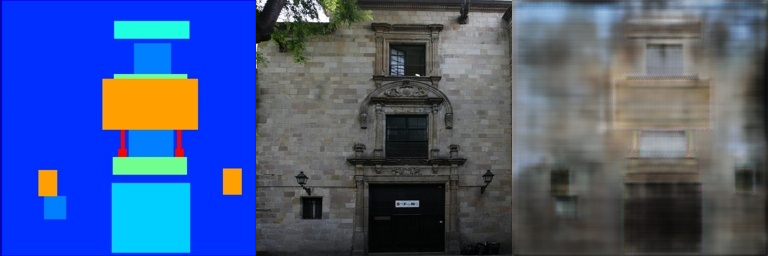
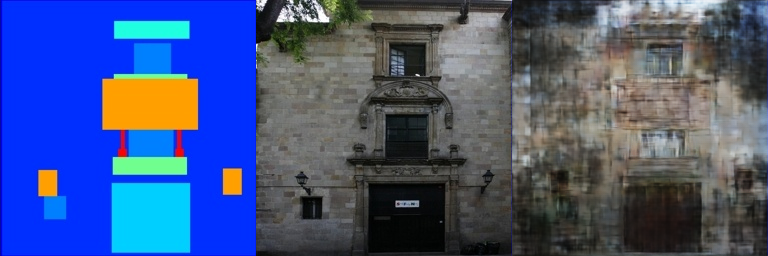
Update training method

Changed region(s): [[0.6562, 0.0, 1.0, 1.0]]

diff --git a/Assignments/02_DIPwithPyTorch/Pix2Pix/generate.py b/Assignments/02_DIPwithPyTorch/Pix2Pix/generate.py
@@ -5,6 +5,8 @@ import torch
 import argparse
 from FCN_network import FullyConvNetwork
 
+IMAGE_GENERATION = True
+
 def tensor_to_image(tensor):
     """
     Convert a PyTorch tensor to a NumPy array suitable for OpenCV.
@@ -38,10 +40,10 @@ def get_recent_checkpoint():
 
 def main():
     parser = argparse.ArgumentParser()
-    parser.add_argument('input_filename')
-    parser.add_argument('output_filename')
+    parser.add_argument('input_folder')
+    parser.add_argument('output_folder')
     args = parser.parse_args()
-    input_filename, output_filename = args.input_filename, args.output_filename
+    input_folder, output_folder = args.input_folder, args.output_folder
 
     """
     Main function to set up the training and validation processes.
@@ -52,6 +54,8 @@ def main():
     # Initialize model, loss function, and optimizer
     model = FullyConvNetwork().to(device)
 
+    criterion = torch.nn.L1Loss()
+
     # Load recent checkpoint if needed
     start_num_epochs, checkpoint = get_recent_checkpoint()
     if start_num_epochs > 0:
@@ -60,33 +64,48 @@ def main():
     else:
         raise RuntimeError("Cannot load recent model")
 
-    img_color_semantic = cv2.imread(input_filename)
-    # Convert the image to a PyTorch tensor
-    image = torch.from_numpy(img_color_semantic).permute(2, 0, 1).float() / 255.0 * 2.0 - 1.0
-    image_rgb = torch.Tensor(size=(1, image.size()[0], image.size()[1], image.size()[2]//2))
-    image_semantic = torch.Tensor(size=(1, image.size()[0], image.size()[1], image.size()[2]//2))
-    image_rgb[0, :, :, :] = image[:, :, :256]
-    image_semantic[0, :, :, :] = image[:, :, 256:]
+    for filename in os.listdir(input_folder):
+        img_color_semantic = cv2.imread(os.path.join(input_folder, filename))
+        # Convert the image to a PyTorch tensor
+        image = torch.from_numpy(img_color_semantic).permute(2, 0, 1).float() / 255.0 * 2.0 - 1.0
+        image_rgb = torch.Tensor(size=(1, image.size()[0], image.size()[1], image.size()[2]//2))
+        image_semantic = torch.Tensor(size=(1, image.size()[0], image.size()[1], image.size()[2]//2))
+        image_rgb[0, :, :, :] = image[:, :, :256]
+        image_semantic[0, :, :, :] = image[:, :, 256:]
 
-    with torch.no_grad():
-        # Move data to the device
-        image_rgb = image_rgb.to(device)
-        image_semantic = image_semantic.to(device)
+        with torch.no_grad():
+            # Move data to the device
+            image_rgb = image_rgb.to(device)
+            image_semantic = image_semantic.to(device)
 
-        # Forward pass
-        outputs = model(image_semantic)
+            if IMAGE_GENERATION:
+                # Forward pass
+                outputs = model(image_semantic)
+                loss = criterion(outputs, image_rgb)
 
-        # Save sample images
-        # Convert tensors to images
-        input_img_np = tensor_to_image(image_semantic[0])
-        target_img_np = tensor_to_image(image_rgb[0])
-        output_img_np = tensor_to_image(outputs[0])
+                # Save sample images
+                # Convert tensors to images
+                input_img_np = tensor_to_image(image_semantic[0])
+                target_img_np = tensor_to_image(image_rgb[0])
+                output_img_np = tensor_to_image(outputs[0])
+            else:
+                # Forward pass
+                outputs = model(image_rgb)
+                loss = criterion(outputs, image_semantic)
 
-        # Concatenate the images horizontally
-        comparison = np.hstack((input_img_np, target_img_np, output_img_np))
+                # Save sample images
+                # Convert tensors to images
+                input_img_np = tensor_to_image(image_rgb[0])
+                target_img_np = tensor_to_image(image_semantic[0])
+                output_img_np = tensor_to_image(outputs[0])
 
-        # Save the comparison image
-        cv2.imwrite(output_filename, comparison)
+            # Concatenate the images horizontally
+            comparison = np.hstack((input_img_np, target_img_np, output_img_np))
+
+            # Save the comparison image
+            cv2.imwrite(os.path.join(output_folder, filename), comparison)
+
+            print(f'"{filename}", loss={loss.item():.4f}')
 
 if __name__ == '__main__':
     main()

diff --git a/Assignments/03_PlayWithGANs/Pix2Pix/train.py b/Assignments/03_PlayWithGANs/Pix2Pix/train.py
@@ -9,6 +9,8 @@ from facades_dataset import FacadesDataset
 from GeneratorNetwork import GeneratorNetwork
 from torch.optim.lr_scheduler import StepLR
 
+IMAGE_GENERATION = True
+
 def tensor_to_image(tensor):
     """
     Convert a PyTorch tensor to a NumPy array suitable for OpenCV.
@@ -79,14 +81,23 @@ def train_one_epoch(model, dataloader, optimizer, criterion, device, epoch, num_
         optimizer.zero_grad()
 
         # Forward pass
-        outputs = model(image_rgb)
+        if IMAGE_GENERATION:
+            outputs = model(image_semantic)
+        else:
+            outputs = model(image_rgb)
 
         # Save sample images every 5 epochs
         if epoch % 5 == 0 and i == 0:
-            save_images(image_rgb, image_semantic, outputs, 'train_results', epoch)
+            if IMAGE_GENERATION:
+                save_images(image_semantic, image_rgb, outputs, 'train_results', epoch)
+            else:
+                save_images(image_rgb, image_semantic, outputs, 'train_results', epoch)
 
         # Compute the loss
-        loss = criterion(outputs, image_semantic)
+        if IMAGE_GENERATION:
+            loss = criterion(outputs, image_rgb)
+        else:
+            loss = criterion(outputs, image_semantic)
 
         # Backward pass and optimization
         loss.backward()
@@ -120,15 +131,24 @@ def validate(model, dataloader, criterion, device, epoch, num_epochs):
             image_semantic = image_semantic.to(device)
 
             # Forward pass
-            outputs = model(image_rgb)
+            if IMAGE_GENERATION:
+                outputs = model(image_semantic)
+            else:
+                outputs = model(image_rgb)
 
             # Compute the loss
-            loss = criterion(outputs, image_semantic)
+            if IMAGE_GENERATION:
+                loss = criterion(outputs, image_rgb)
+            else:
+                loss = criterion(outputs, image_semantic)
             val_loss += loss.item()
 
             # Save sample images every 5 epochs
             if epoch % 5 == 0 and i == 0:
-                save_images(image_rgb, image_semantic, outputs, 'val_results', epoch)
+                if IMAGE_GENERATION:
+                    save_images(image_semantic, image_rgb, outputs, 'val_results', epoch)
+                else:
+                    save_images(image_rgb, image_semantic, outputs, 'val_results', epoch)
 
     # Calculate average validation loss
     avg_val_loss = val_loss / len(dataloader)
